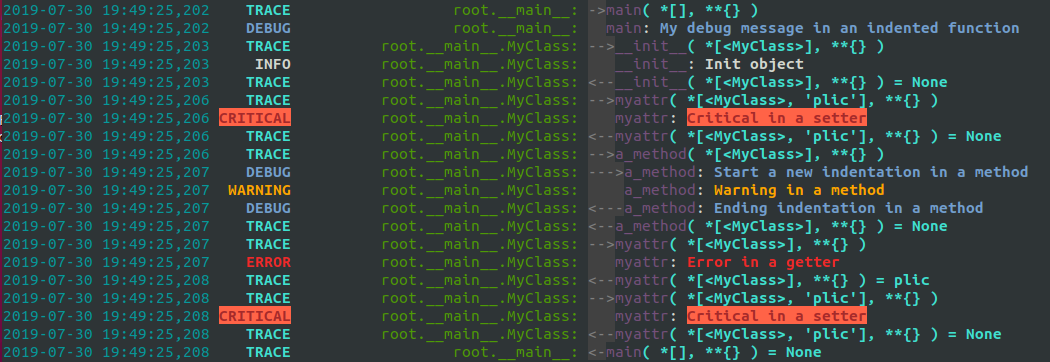
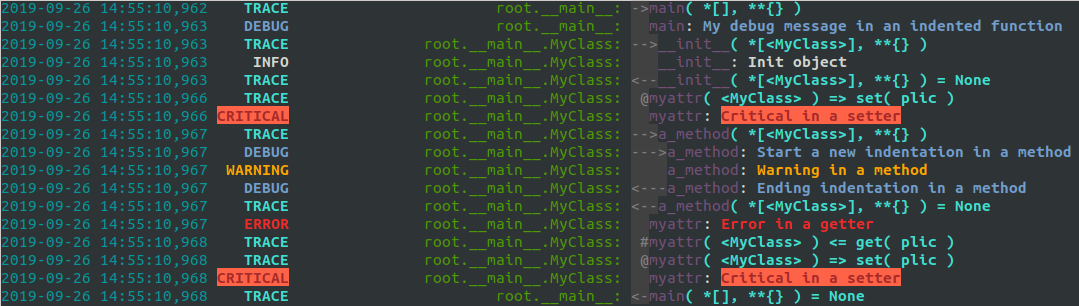
Improve doc

diff --git a/cilogger/cilogger.py b/cilogger/cilogger.py
@@ -2,8 +2,8 @@
 """ The cilogger module extends the python logging module to indent and color the logs and provides a log level of
 type "TRACE". It also contains two decorators:
 
-* A function decorator "@ftrace" that allows you to draw function calls with its arguments
-* A class decorator "@ctrace" that lets you plot method and property calls
+* A function decorator "@ftrace" that allows you to log function calls with its arguments
+* A class decorator "@ctrace" that lets you log class method and property calls
 
 Example :
 

diff --git a/README.md b/README.md
@@ -4,8 +4,11 @@ CiLogger package
 The cilogger module extends the python logging module to indent and color the logs and provides a log level of
 type "TRACE". It also contains two decorators:
 
-* A function decorator "@ftrace" that allows you to draw function calls with its arguments
-* A class decorator "@ctrace" that lets you plot method and property calls
+* A function decorator "@ftrace" that allows you to log function calls with its arguments
+* A class decorator "@ctrace" that lets you log class method and property calls
+  * @ is used to show that it's a setter property call
+  * # is used to show that it's a getter property call
+
 
 Install :
 ---------
@@ -13,7 +16,6 @@ Install :
 ```
 pip install git+https://github.com/christophe-marteau/python-cilogger#egg=cilogger
 ```
-
 
 Use :
 -----
